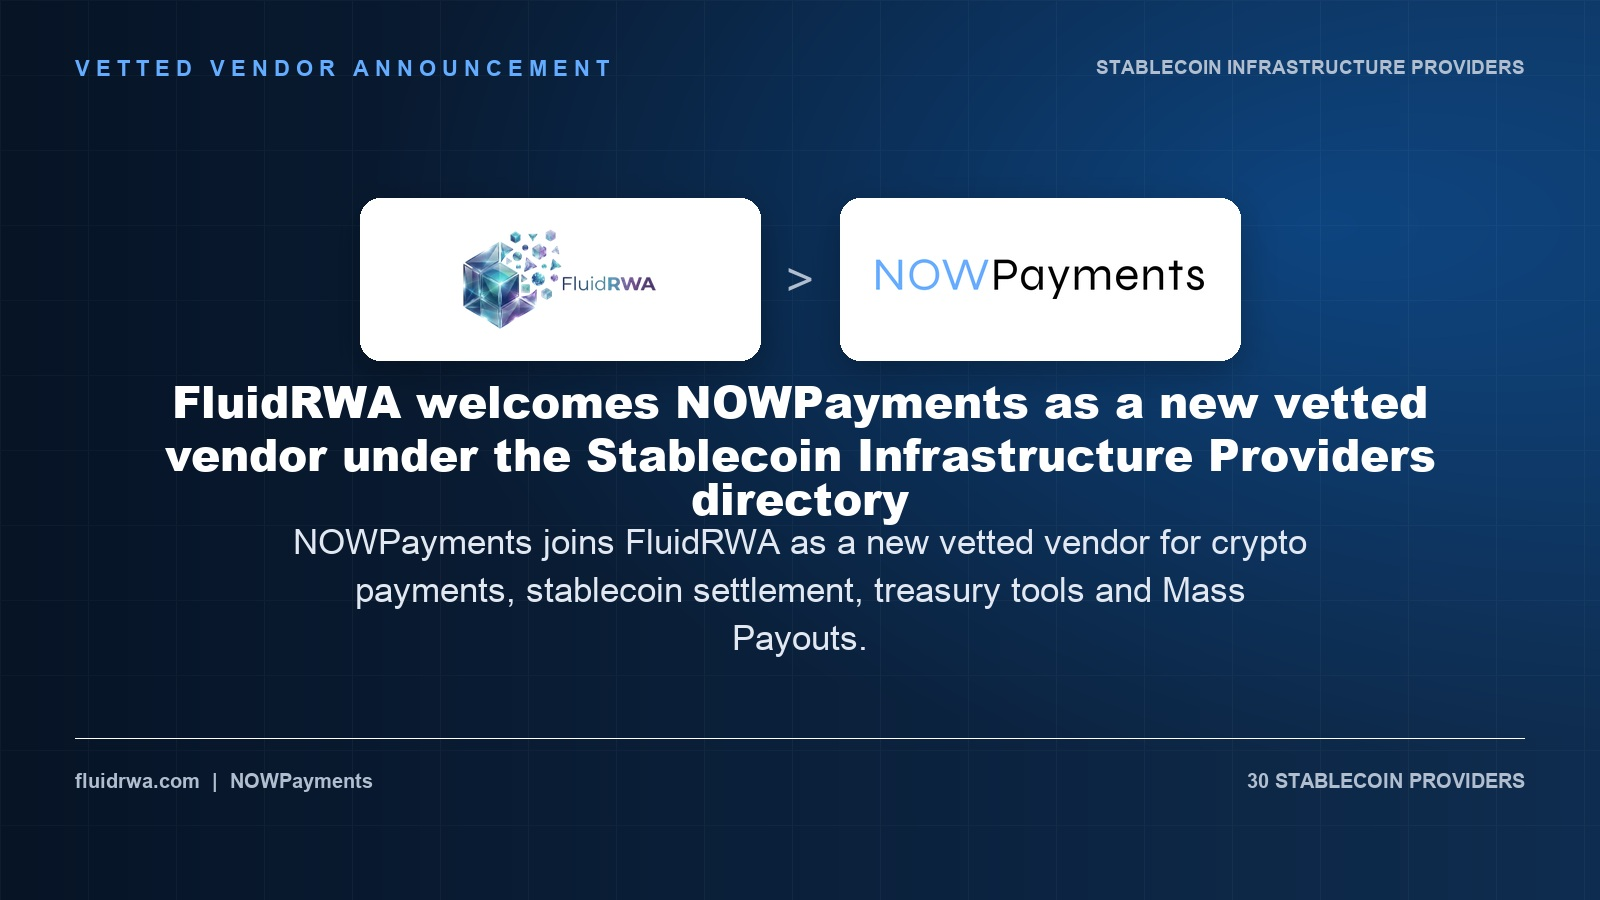
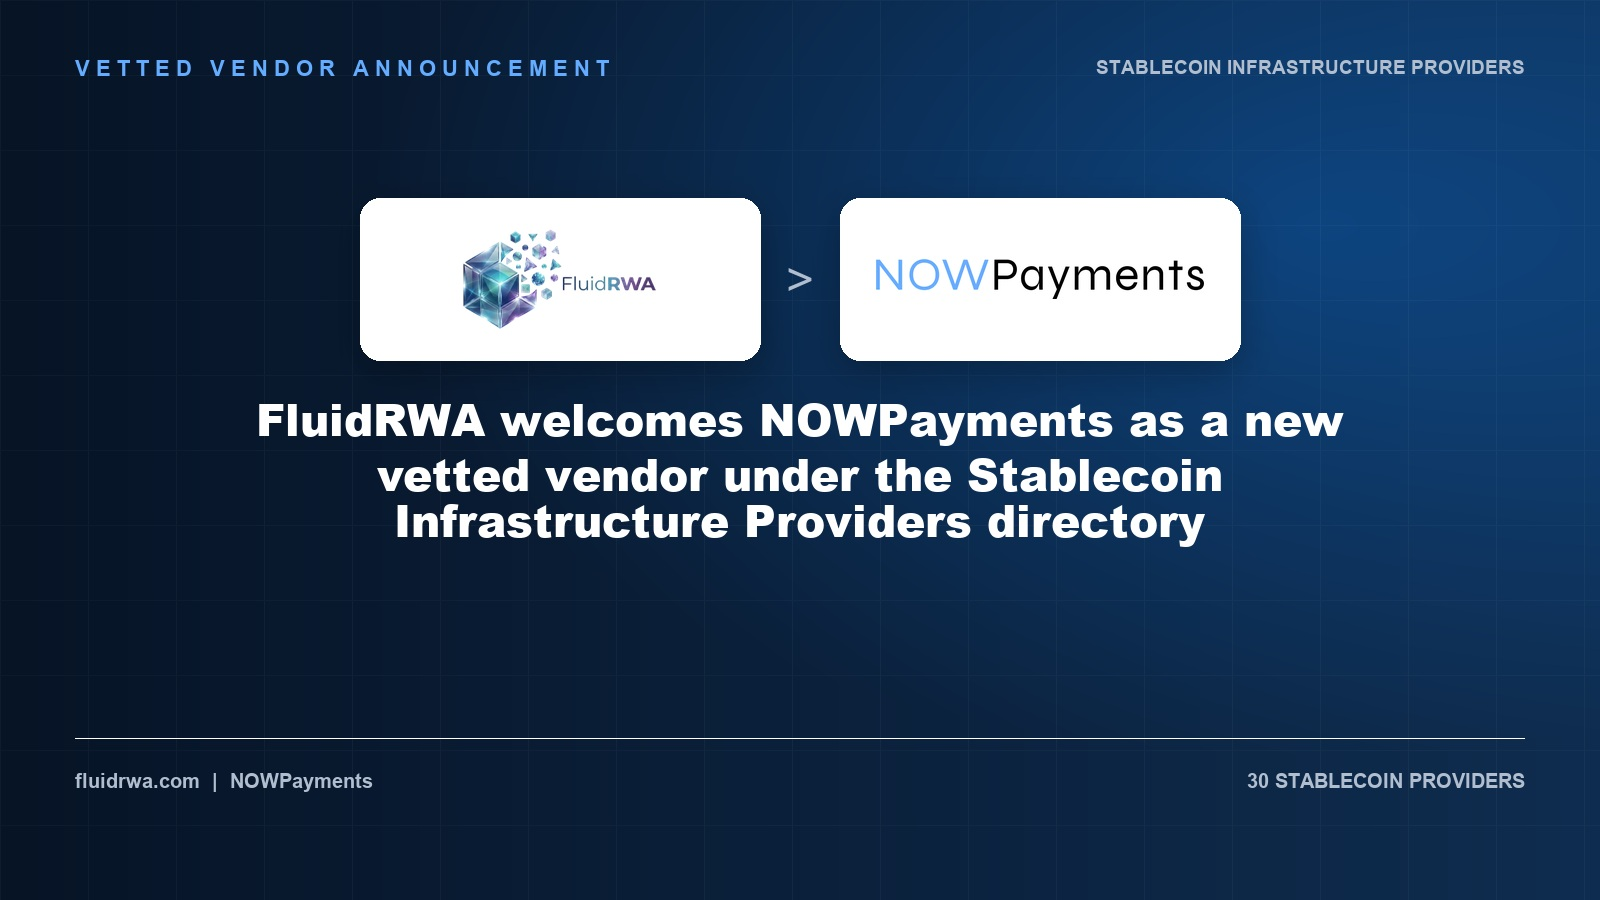
Add light NOWPayments social announcement

Changed region(s): [[0.0938, 0.4044, 0.9062, 0.7467]]

diff --git a/scripts/create-nowpayments-social-image.py b/scripts/create-nowpayments-social-image.py
@@ -1,0 +1,117 @@
+from pathlib import Path
+
+from PIL import Image, ImageDraw, ImageFilter, ImageFont
+
+
+ROOT = Path(__file__).resolve().parents[1]
+BACKGROUND = ROOT / "public" / "assets" / "social" / "nowpayments-vetted-vendor-background-v2.png"
+FLUID_LOGO = ROOT / "assets" / "fluidrwa-small-logo.png"
+NOWPAYMENTS_LOGO = ROOT / "public" / "assets" / "company-logos" / "nowpayments.png"
+OUTPUT = ROOT / "public" / "assets" / "social" / "nowpayments-vetted-vendor-social-v2.png"
+FONT_DIR = Path("/System/Library/Fonts/Supplemental")
+
+
+def font(name, size):
+    return ImageFont.truetype(str(FONT_DIR / name), size)
+
+
+def cover_crop(image, size):
+    target_w, target_h = size
+    scale = max(target_w / image.width, target_h / image.height)
+    resized = image.resize((round(image.width * scale), round(image.height * scale)), Image.Resampling.LANCZOS)
+    left = (resized.width - target_w) // 2
+    top = (resized.height - target_h) // 2
+    return resized.crop((left, top, left + target_w, top + target_h))
+
+
+def trim_white(image):
+    rgb = image.convert("RGB")
+    pixels = rgb.load()
+    points = [
+        (x, y)
+        for y in range(rgb.height)
+        for x in range(rgb.width)
+        if min(pixels[x, y]) < 245
+    ]
+    if not points:
+        return image
+    xs, ys = zip(*points)
+    return image.crop((min(xs), min(ys), max(xs) + 1, max(ys) + 1))
+
+
+def place_logo(canvas, path, box, trim=False):
+    x1, y1, x2, y2 = box
+    draw = ImageDraw.Draw(canvas)
+    draw.rounded_rectangle(box, radius=18, fill=(255, 255, 255, 246), outline=(255, 255, 255, 170), width=1)
+    logo = Image.open(path).convert("RGBA")
+    if trim:
+        logo = trim_white(logo)
+    else:
+        alpha_box = logo.getbbox()
+        if alpha_box:
+            logo = logo.crop(alpha_box)
+    logo.thumbnail((int((x2 - x1) * 0.78), int((y2 - y1) * 0.58)), Image.Resampling.LANCZOS)
+    canvas.alpha_composite(logo, (int((x1 + x2 - logo.width) / 2), int((y1 + y2 - logo.height) / 2)))
+
+
+def centered_text(draw, text, y, typeface, fill, canvas_width):
+    box = draw.textbbox((0, 0), text, font=typeface)
+    draw.text(((canvas_width - (box[2] - box[0])) / 2, y), text, font=typeface, fill=fill)
+
+
+def create():
+    size = (1200, 675)
+    background = cover_crop(Image.open(BACKGROUND).convert("RGB"), size).convert("RGBA")
+    tint = Image.new("RGBA", size, (255, 255, 255, 28))
+    canvas = Image.alpha_composite(background, tint)
+
+    glass = Image.new("RGBA", size, (0, 0, 0, 0))
+    shadow_draw = ImageDraw.Draw(glass)
+    shadow_draw.rounded_rectangle((69, 47, 1131, 614), radius=30, fill=(30, 83, 128, 62))
+    glass = glass.filter(ImageFilter.GaussianBlur(18))
+    canvas = Image.alpha_composite(canvas, glass)
+
+    draw = ImageDraw.Draw(canvas)
+    draw.rounded_rectangle(
+        (70, 38, 1130, 605),
+        radius=28,
+        fill=(248, 252, 255, 232),
+        outline=(132, 184, 226, 150),
+        width=2,
+    )
+
+    eyebrow = font("Arial Bold.ttf", 17)
+    label = "NEW VETTED VENDOR  |  STABLECOIN INFRASTRUCTURE PROVIDERS"
+    centered_text(draw, label, 70, eyebrow, (35, 105, 169, 255), size[0])
+
+    place_logo(canvas, FLUID_LOGO, (280, 118, 550, 220))
+    place_logo(canvas, NOWPAYMENTS_LOGO, (650, 118, 920, 220), trim=True)
+    draw = ImageDraw.Draw(canvas)
+    centered_text(draw, "+", 145, font("Arial.ttf", 40), (69, 116, 158, 230), size[0])
+
+    centered_text(draw, "FluidRWA welcomes", 269, font("Arial Bold.ttf", 39), (11, 35, 64, 255), size[0])
+    centered_text(draw, "NOWPayments", 315, font("Arial Black.ttf", 67), (11, 35, 64, 255), size[0])
+    centered_text(draw, "as a new vetted vendor under the", 401, font("Arial.ttf", 29), (49, 73, 101, 255), size[0])
+    centered_text(
+        draw,
+        "Stablecoin Infrastructure Providers directory",
+        444,
+        font("Arial Bold.ttf", 31),
+        (40, 117, 187, 255),
+        size[0],
+    )
+
+    draw.line((120, 528, 1080, 528), fill=(78, 135, 184, 95), width=1)
+    draw.text((120, 554), "fluidrwa.com", font=font("Arial Bold.ttf", 18), fill=(28, 67, 104, 235))
+    footer = "VETTED VENDOR ECOSYSTEM"
+    footer_font = font("Arial Bold.ttf", 15)
+    footer_box = draw.textbbox((0, 0), footer, font=footer_font)
+    draw.text((1080 - (footer_box[2] - footer_box[0]), 556), footer, font=footer_font, fill=(53, 104, 150, 220))
+
+    OUTPUT.parent.mkdir(parents=True, exist_ok=True)
+    canvas.convert("RGB").save(OUTPUT, optimize=True)
+    print(OUTPUT)
+
+
+if __name__ == "__main__":
+    create()

diff --git a/scripts/create-nowpayments-announcement-images.py b/scripts/create-nowpayments-announcement-images.py
@@ -114,16 +114,7 @@ def create(size, filename):
     draw.text((w * 0.5, logo_y), ">", font=bridge, fill=muted, anchor="mm")
 
     headline = "FluidRWA welcomes NOWPayments as a new vetted vendor under the Stablecoin Infrastructure Providers directory"
-    draw_centered_wrapped(draw, headline, h * 0.41, title_face, "white", w * 0.88, int(h * 0.012))
-    draw_centered_wrapped(
-        draw,
-        "NOWPayments joins FluidRWA as a new vetted vendor for crypto payments, stablecoin settlement, treasury tools and Mass Payouts.",
-        h * 0.58,
-        body,
-        (226, 232, 242, 238),
-        w * 0.64,
-        int(h * 0.018),
-    )
+    draw_centered_wrapped(draw, headline, h * 0.43, title_face, "white", w * 0.72, int(h * 0.014))
 
     draw.line((w * 0.047, h * 0.82, w * 0.953, h * 0.82), fill=(255, 255, 255, 45), width=1)
     draw.text((w * 0.047, h * 0.855), "fluidrwa.com  |  NOWPayments", font=footer, fill=muted)
